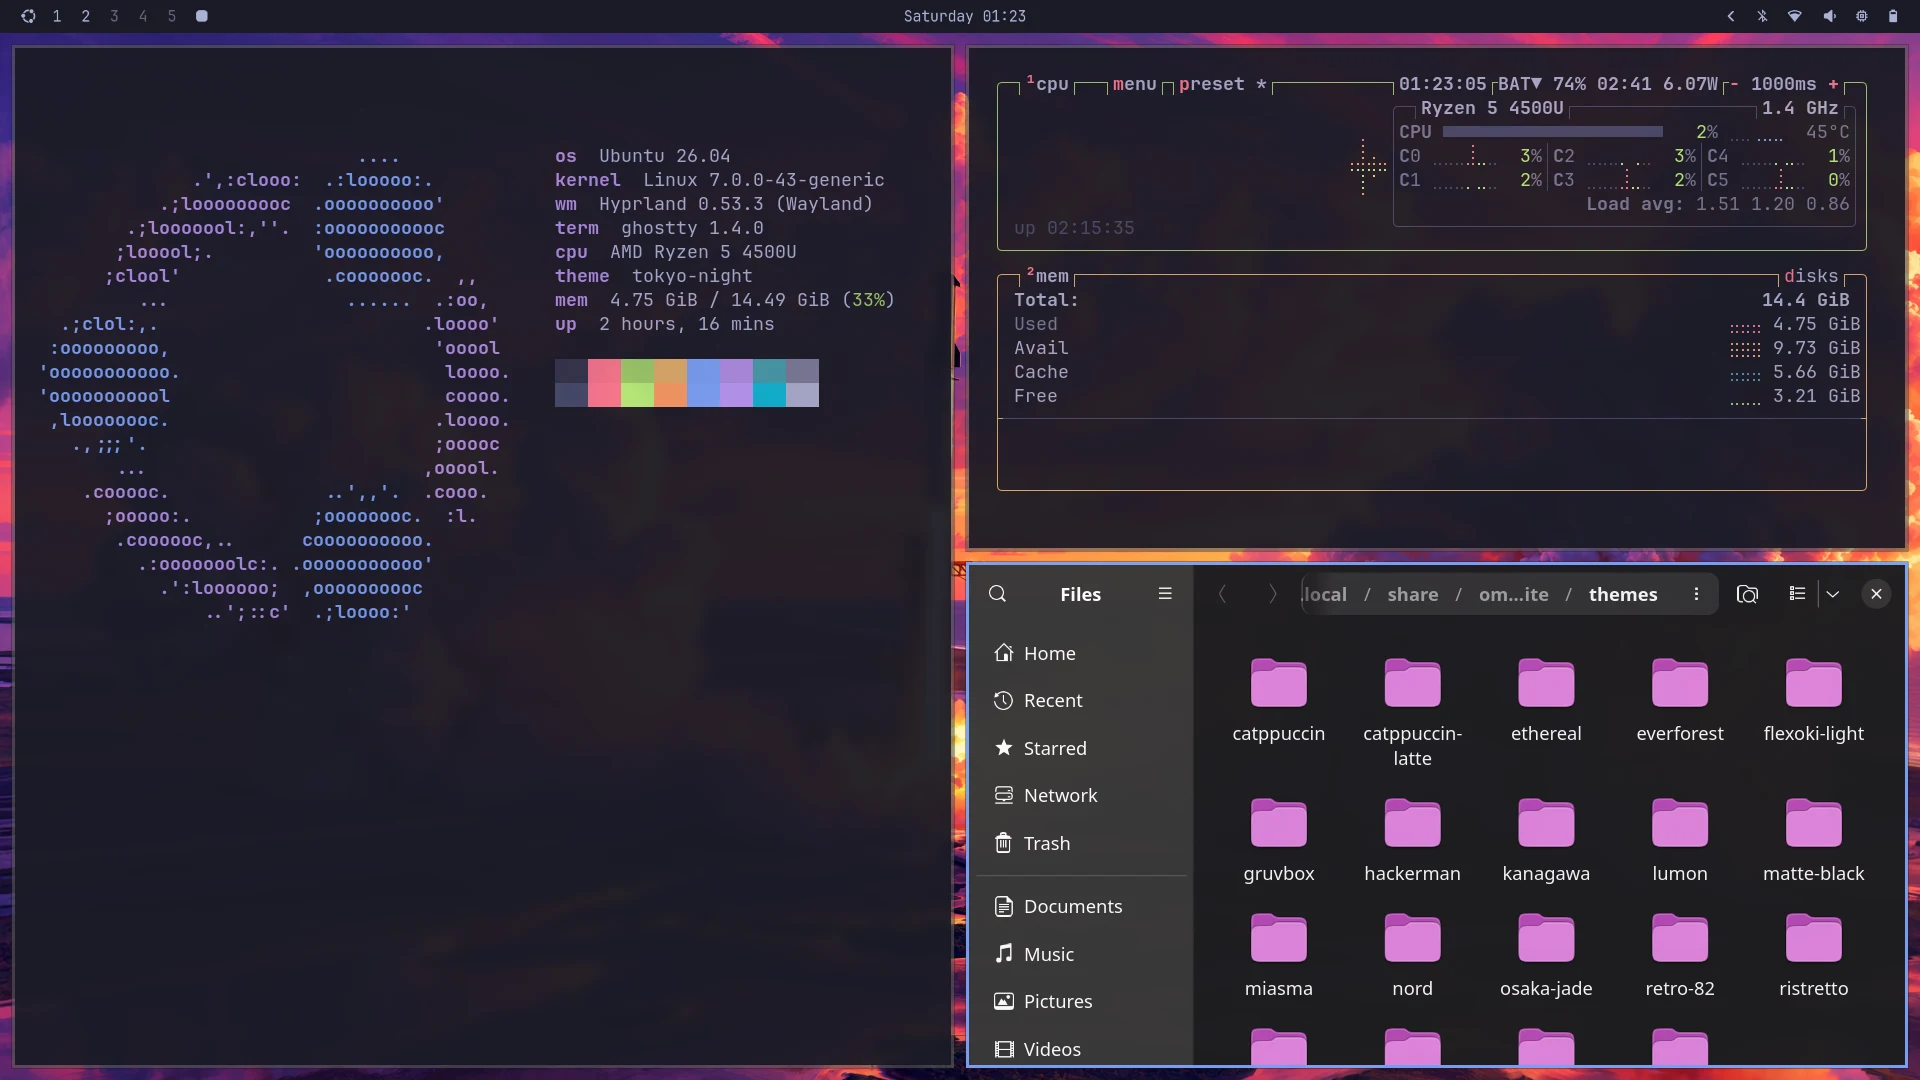
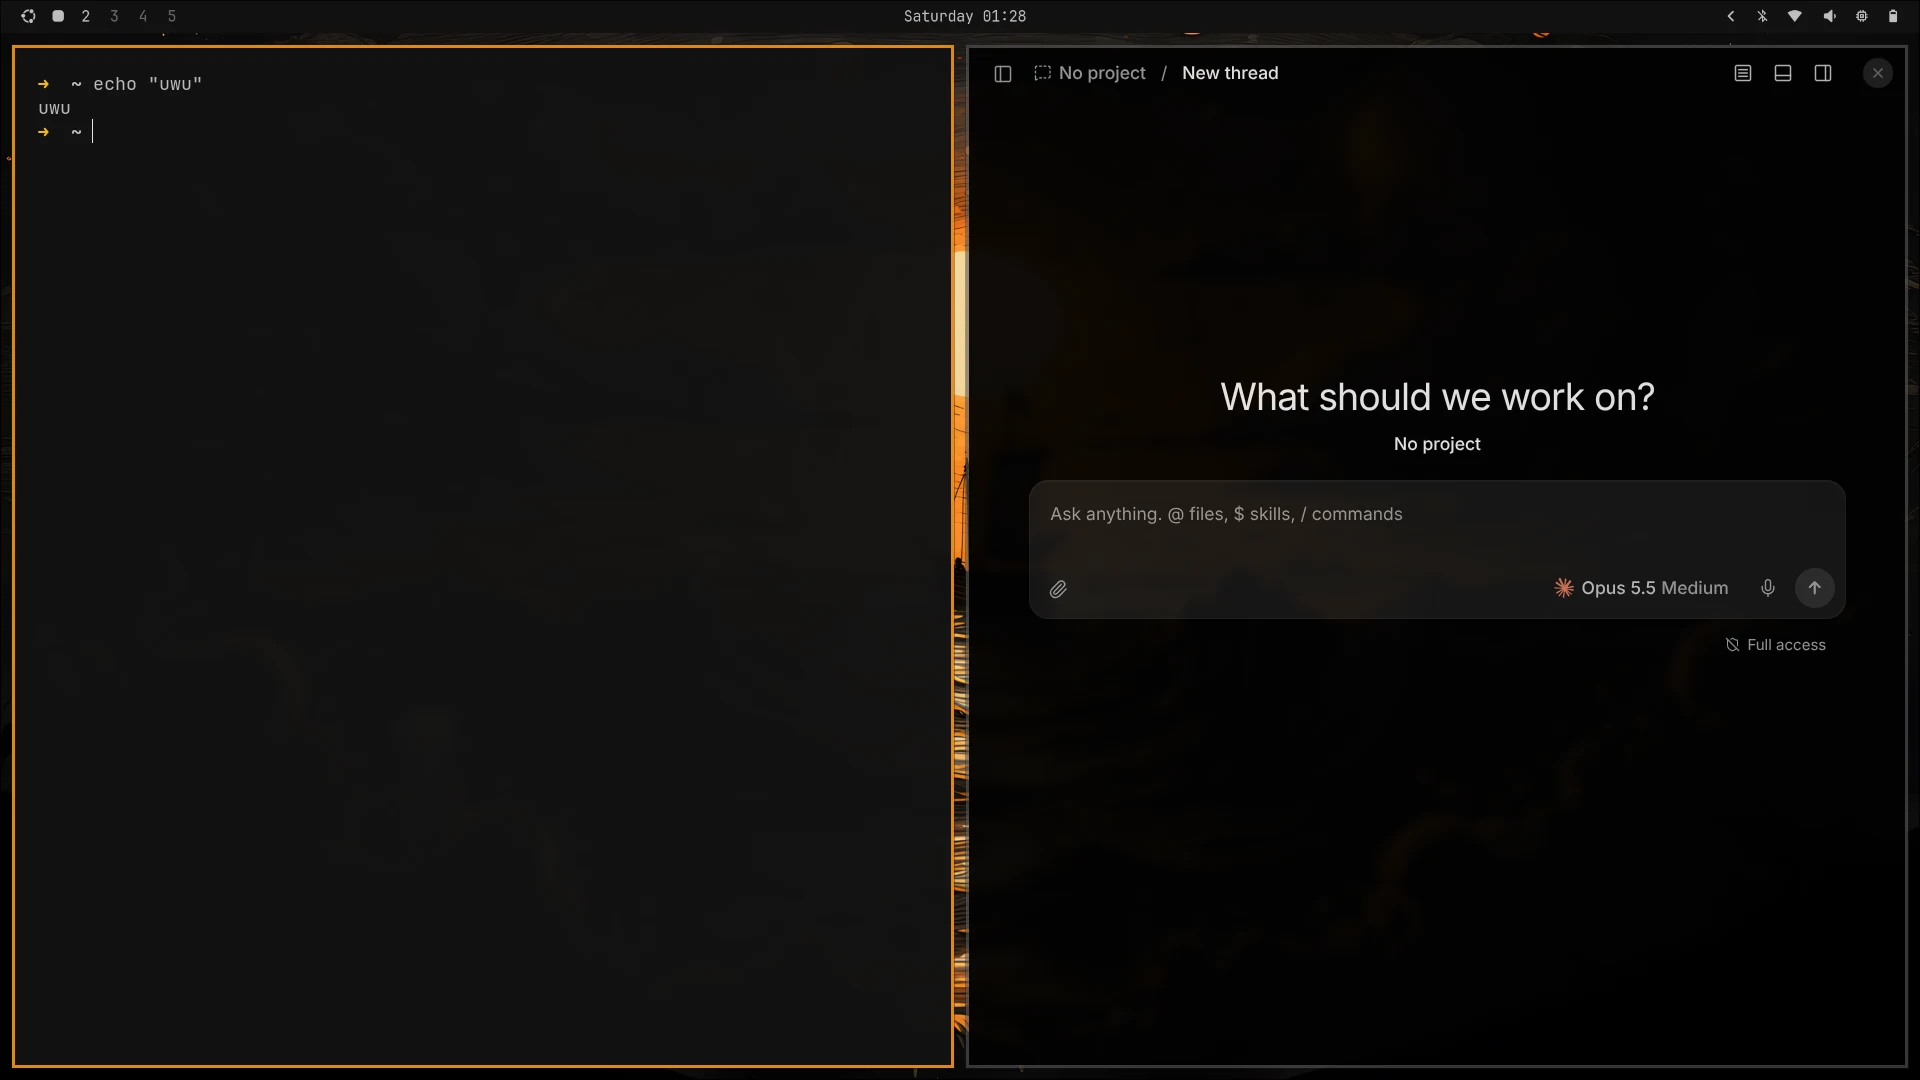
Use the Matte Black desktop as the README hero shot

diff --git a/README.md b/README.md
@@ -6,7 +6,7 @@ It's built to be set up by an AI coding agent in one pass: [`AGENTS.md`](AGENTS.
 
 > Unofficial. Not affiliated with Omarchy or Basecamp. The layout, keybindings and themes are adapted from Omarchy v3.8.4 (MIT).
 
-![Tokyo Night theme: Ghostty with fastfetch, btop and Files, tiled under Waybar](docs/screenshots/hero.webp)
+![Matte Black theme: Ghostty and an app tiled under Waybar](docs/screenshots/hero.webp)
 
 ## What you get
 
